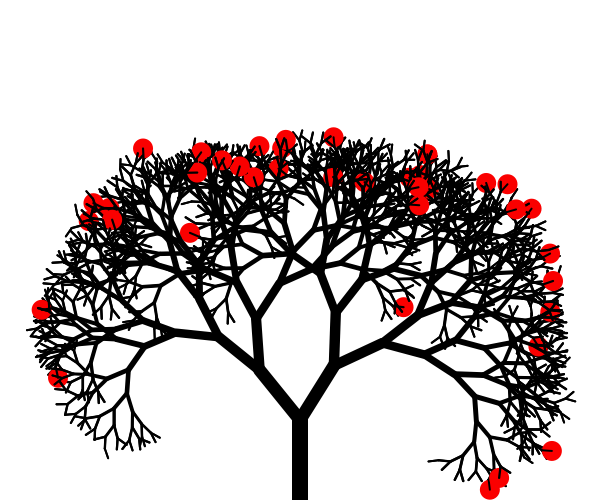
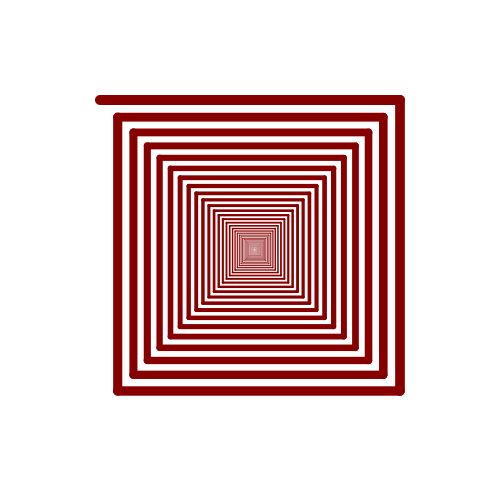
embua

diff --git a/ed/fractais_png/go/main.go b/ed/fractais_png/go/main.go
@@ -9,34 +9,25 @@ func ri(inf, sup int) float64 {
 	return float64(rand.Intn(sup-inf+1) + inf)
 }
 
-func arvere(pen *Pen, dist float64) {
-	if dist < 10 {
-		if ri(0, 50) == 0 {
-			pen.SetRGB(250, 0, 0)
-			pen.FillCircle(10)
-		}
-		return
+func embua(pen *Pen, dist float64) {
+	if dist < 1 {
+		return // acaba recursao
 	}
-	ang_dir := ri(10, 40)
-	ang_esq := ri(10, 40)
-
-	pen.SetLineWidth(dist / 5)
-	pen.SetRGB(0, 0, 0)
-	pen.Walk(dist)
-	pen.Right(ang_dir)
-	arvere(pen, dist*(ri(80, 85)/100))
-	pen.Left(ang_dir + ang_esq)
-	arvere(pen, dist*(ri(80, 85)/100))
-	pen.Right(ang_esq)
-	pen.SetRGB(0, 0, 0)
-	pen.Walk(-dist)
+	//r, g, b := rand.Float64(), rand.Float64(), rand.Float64()
+	//pen.SetRGB(r, g, b)
+	pen.SetLineWidth(dist / 30)
+	pen.Walk(dist) // anda quatidade
+	dist *= 0.97
+	pen.Right(90)    // gira em 90 graus
+	embua(pen, dist) // recursao
 }
 
 func main() {
-	pen := NewPen(600, 500)
-	pen.SetHeading(90)
-	pen.SetPosition(300, 500)
-	arvere(pen, 80)
+	pen := NewPen(500, 500)   // criar o tamanho da imagem
+	pen.SetRGB(134, 0, 0)     // cor
+	pen.SetPosition(100, 100) // onde a caenta vai comecar
+	embua(pen, 300)
+
 	pen.SavePNG("tree.png")
 	fmt.Println("PNG file created successfully.")
 }
